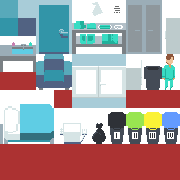
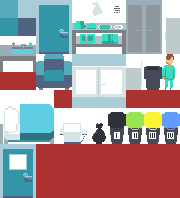
Rooms

diff --git a/src/js/scenes/baseScene.js b/src/js/scenes/baseScene.js
@@ -8,6 +8,7 @@ class BaseScene extends Phaser.Scene {
 
         this.pause = false;
         this.inRoom = false;
+        this.inCorridor = true;
         this.clothes = [];
         this.rooms = [];
     }
@@ -16,7 +17,6 @@ class BaseScene extends Phaser.Scene {
     create() {
         ui.EnableGameUI();
         currentScene = this;
-        inGame = true;
 
         this.camera = this.cameras.main;
         this.camera.setOrigin(0.5, 0.5);
@@ -33,6 +33,8 @@ class BaseScene extends Phaser.Scene {
         this.player = new Player(this, 16, (this.map.height - 1) * 16);
         this.camera.startFollow(this.player);
 
+        this.gameController = new GameController();
+
         this.input.on('pointerdown', function (pointer) {
             if (!this.pause) {
                 let x = Math.floor(pointer.worldX / 16);
@@ -41,6 +43,10 @@ class BaseScene extends Phaser.Scene {
                 this.ManageInput(x, y);
             }
         }, this);
+
+        for (let i = 0; i < 4; i++) {
+            this.rooms.push(new Room(this, 112 + (128 * i), 0));
+        }
     }
 
     LoadTileMap() {
@@ -72,14 +78,11 @@ class BaseScene extends Phaser.Scene {
 
                 if (iTile) {
                     this.world[i][j] = 4;
-
-                    if(iTile.index == 61)
-                    this.rooms.push(new Room(this, iTile.x*16, iTile.y*16));
                 }
             }
         }
 
-        
+
 
         this.camera.setBounds(0, 0, this.map.width * 16, this.map.height * 16);
     }
@@ -123,7 +126,7 @@ class BaseScene extends Phaser.Scene {
                     case 23:
                         //Door
                         //this.CrossDoor(y < this.player.GetY());
-                        this.CrossDoor(!this.inRoom);
+                        this.CrossPatientDoor();
                         break;
                     case 14:
                     case 15:
@@ -138,8 +141,16 @@ class BaseScene extends Phaser.Scene {
                     case 30:
                     case 31:
                         this.WashHands();
+                        break;
                     case 66:
                         this.player.ThrowTrash(idx);
+                        break;
+                    case 81:
+                    case 91:
+                    case 101:
+                        //Door
+                        this.CrossDoor();
+                        break;
                     default:
 
                         break;
@@ -152,7 +163,9 @@ class BaseScene extends Phaser.Scene {
         }
     }
 
-    CrossDoor(goingIn) {
+    CrossDoor() {
+        let goingIn = this.inCorridor;
+
         if (!this.fading) {
             this.camera.fadeOut(500);
             this.fading = true;
@@ -160,6 +173,33 @@ class BaseScene extends Phaser.Scene {
                 let dist = 5 * 16;
                 if (goingIn) {
                     this.player.y -= dist;
+                } else {
+                    this.player.y += dist;
+                }
+                this.camera.fadeIn(500);
+                this.fading = false;
+                this.inCorridor = !goingIn;
+            });
+        } else {
+            console.log("Nope");
+        }
+
+        return true;
+    }
+
+    CrossPatientDoor() {
+        let goingIn = !this.inRoom;
+
+        if (!this.fading) {
+            this.camera.fadeOut(500);
+            this.fading = true;
+            this.camera.once('camerafadeoutcomplete', () => {
+                let dist = 5 * 16;
+                if (goingIn) {
+                    this.player.y -= dist;
+
+                    this.gameController.CheckMistakes(currentRoom.patient, this.player);//////////////////////////////////////
+
                 } else {
                     this.player.y += dist;
                     if (this.player.Wears(ID_MASCARILLA)) {
@@ -174,6 +214,8 @@ class BaseScene extends Phaser.Scene {
         } else {
             console.log("Nope");
         }
+
+        return true;
     }
 
     WashHands() {

diff --git a/src/js/gameController.js b/src/js/gameController.js
@@ -1,0 +1,35 @@
+class GameController {
+    constructor() {
+
+    }
+
+    CheckMistakes(patient, player) {
+        let mistakes = [];
+        //Cuando sale de la habitación se llama a esta función y se le pasa el paciente
+        switch (getIsolationType(patient.illness)) { //Segun tipo de aislamiento se aplican unas medidas
+            case "a":
+                //Comprobar medidas para tipo de aislamiento a
+                if (!player.Wears(ID_BATA)) {
+                    mistakes.push({ "mistake": "No llevaba bata", "value": 1 });
+                }
+
+                console.log("Achís");
+                break;
+            default:
+                break;
+        }
+
+        return mistakes;
+    }
+}
+
+function getIsolationType(illness) {
+    //Según enfermedad se aplica un tipo de aislamiento
+    switch (illness) {
+        case "constipao":
+            return "a";
+            break;
+        default:
+            break;
+    }
+}

diff --git a/src/js/scenes/menus.js b/src/js/scenes/menus.js
@@ -5,7 +5,6 @@ class BaseMenuScene extends Phaser.Scene {
     }
 
     create() {
-        inGame = false;
         currentScene = this;
         this.EnableFullScreen();
         this.loading = false;
@@ -65,13 +64,13 @@ class MainMenu extends BaseMenuScene {
         }).setDepth(10).setOrigin(1, 1).setScrollFactor(0).setLineSpacing(4);
 
         this.start.on('pointerdown', function (event) {
-            
+
         }, this);
 
         this.input.on('pointerdown', function (pointer) {
             this.LoadScene("game");
         }, this);
 
-        this.scene.start("game");
+        // this.scene.start("game");
     }
 }

diff --git a/src/js/room.js b/src/js/room.js
@@ -4,7 +4,13 @@ class Room {
         this.x = x;
         this.y = y;
 
-        this.patient = new Patient(scene, x + 5, y); 
+        this.patient = new Patient(scene, x + 5, 100);
+        this.door = scene.add.rectangle(x + 64, 256, 32, 48, 0xff0000).setDepth(1).setOrigin(0).setInteractive();
+        this.door.on('pointerdown', function (event) {
+            if (scene.CrossPatientDoor()) {
+                currentRoom = this;
+            }
+        }, this);
     }
 }
 

diff --git a/src/js/patient.js b/src/js/patient.js
@@ -7,13 +7,7 @@ class Patient extends Phaser.GameObjects.Sprite {
         //this.scene.entities.push(this);
 
         this.setDepth(1).setOrigin(0).setFrame(Math.floor(Math.random() * 4));
-        this.enfermedad = new Enfermedad();
-    }
-}
+        this.illness = "constipao";
 
-class Enfermedad {
-    constructor() {
-        this.nombre;
-        this.sintomas = [];
     }
 }

diff --git a/src/js/ui/ui.js b/src/js/ui/ui.js
@@ -36,7 +36,7 @@ class UI extends BaseMenuScene {
     }
 
     update() {
-        if (inGame && this.mobile) {
+        if (this.mobile) {
 
         }
         if (this.text.active) {
@@ -45,6 +45,8 @@ class UI extends BaseMenuScene {
     }
 
     EnableGameUI() { }
+
+    HideGameUI() { }
 
     EnableMenuUI() { }
 }

diff --git a/index.html b/index.html
@@ -16,6 +16,7 @@
   <script src="src/js/player/node.js"></script>
   <script src="src/js/patient.js"></script>
   <script src="src/js/room.js"></script>
+  <script src="src/js/gameController.js"></script>
 
   <script src="src/js/ui/ui.js"></script>
 

diff --git a/src/js/globalVariables.js b/src/js/globalVariables.js
@@ -1,7 +1,5 @@
-let startTime;
-let inGame = false;
 let currentScene;
-let gamepad;
+let currentRoom;
 
 function ResetGame() {
 }
